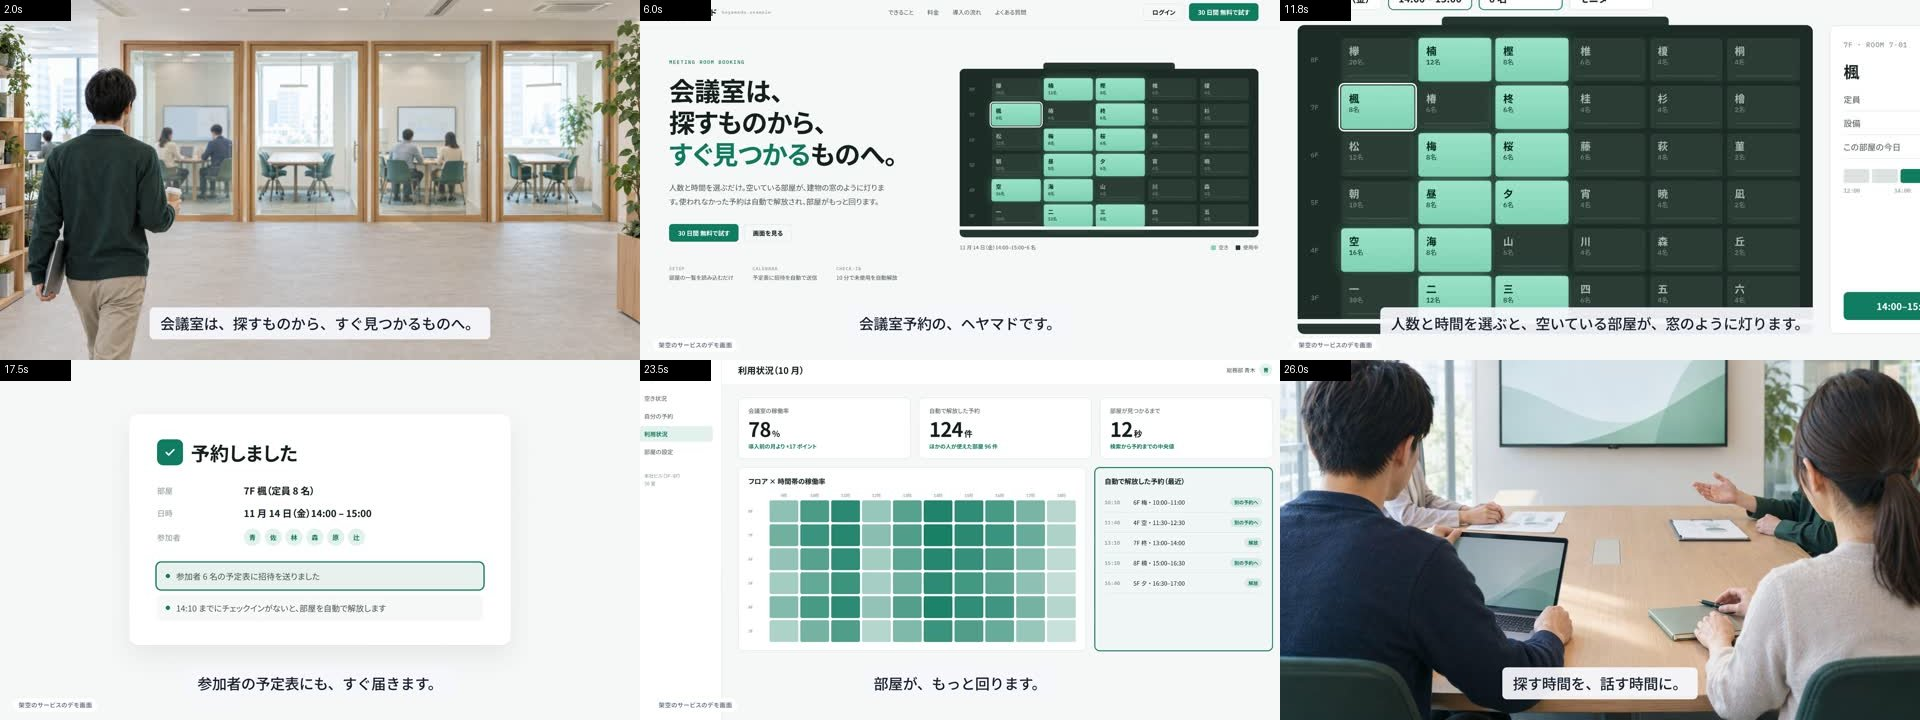
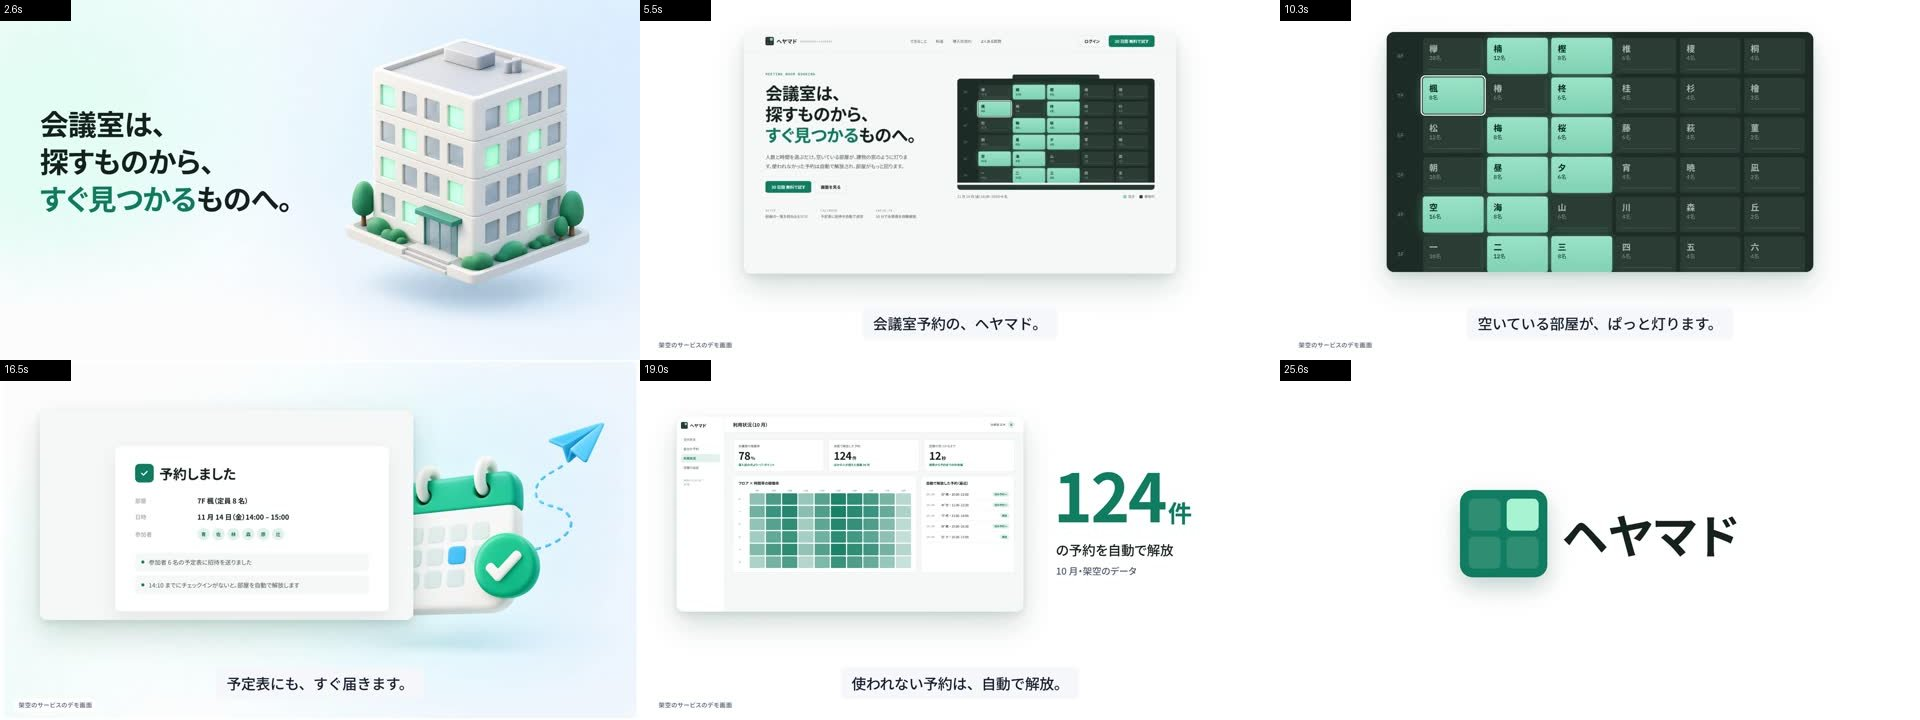
記事の主役を明るい SaaS 調の版に入れ替える
- 工程 1〜8 の例・コマ表・コード抜粋・数値・画像（GIF、候補、スタジオ、抜き出しコマ）を SaaS 版に差し替え
- 落ち着いた説明調の版は「テイストを決める」節の比較対象として残す（digest-calm.gif）
- SaaS 版に STORYBOARD.md を追加。README・AGENTS・llms.txt・docs/costs の完成例と費用を更新

diff --git a/README.md b/README.md
@@ -1,15 +1,15 @@
 # claude-code-demo-video-kit
 
 Claude Code に、展示会や商談で流す **日本語ナレーション・字幕・BGM 付きのデモ動画（1920×1080 の mp4）** を作らせるための道具一式です。
-動画は [HyperFrames](https://github.com/heygen-com/hyperframes)（HTML → mp4）で組み、素材の写真は `gpt-image-2.5-flare`、ナレーションは `gpt-realtime-2.1` で作ります。
+動画は [HyperFrames](https://github.com/heygen-com/hyperframes)（HTML → mp4）で組み、立体の小物と写真の素材は `gpt-image-2.5-flare`、ナレーションは `gpt-realtime-2.1` で作ります。
 
 ![完成例のダイジェスト](images/claude-code-demo-video-hyperframes/digest-full.gif)
 
 - 解説記事：[articles/claude-code-demo-video-hyperframes.md](articles/claude-code-demo-video-hyperframes.md)（Zenn）
 - AI エージェント向けの手順：[AGENTS.md](AGENTS.md)
-- 完成例：[examples/meetroom-30s](examples/meetroom-30s)（架空の会議室予約 SaaS「ヘヤマド」の 30 秒動画、落ち着いた説明調、mp4 と SRT は `renders/`）と、同じ題材を明るい SaaS 調にした [examples/meetroom-30s-saas](examples/meetroom-30s-saas)
+- 完成例：[examples/meetroom-30s-saas](examples/meetroom-30s-saas)（架空の会議室予約 SaaS「ヘヤマド」の 26.6 秒動画、明るい SaaS 調、mp4 と SRT は `renders/`）と、同じ題材を落ち着いた説明調にした [examples/meetroom-30s](examples/meetroom-30s)
 - テイストの決め方：[skills/ja-narrated-video/references/taste.md](skills/ja-narrated-video/references/taste.md)
-- 費用と時間の実測：[docs/costs.md](docs/costs.md)（30 秒 1 本で API 約 0.23 米ドル）
+- 費用と時間の実測：[docs/costs.md](docs/costs.md)（約 30 秒 1 本で API 約 0.31 米ドル）
 
 ## クイックスタート
 
@@ -31,7 +31,7 @@ skills/ja-narrated-video を使って、<製品名> の 30 秒のデモ動画を
 完成例だけをレンダし直すなら、API の鍵は要りません（素材はリポに入っています）。
 
 ```bash
-cd examples/meetroom-30s && npm run check && npm run render
+cd examples/meetroom-30s-saas && npm run check && npm run render
 ```
 
 ## 必要なもの
@@ -44,7 +44,7 @@ cd examples/meetroom-30s && npm run check && npm run render
 
 - このリポのコードと文書：MIT（[LICENSE](LICENSE)）
 - HyperFrames：Apache-2.0（npm から取得。このリポには含めていません）
-- 同梱フォント（`examples/meetroom-30s/assets/fonts/`）：Noto Sans JP、IBM Plex Mono（SIL Open Font License 1.1、ライセンス文を同梱）
-- 完成例の BGM（`examples/meetroom-30s/assets/bgm/`）：MusicGen small で生成。モデルの重みは CC-BY-NC 4.0 のため、非商用のサンプルとして扱ってください。商用の動画ではロイヤリティフリー音源に差し替えてください
+- 同梱フォント（`examples/*/assets/fonts/`）：Noto Sans JP、IBM Plex Mono（SIL Open Font License 1.1、ライセンス文を同梱）
+- 完成例の BGM（`examples/*/assets/bgm/`）：MusicGen small で生成。モデルの重みは CC-BY-NC 4.0 のため、非商用のサンプルとして扱ってください。商用の動画ではロイヤリティフリー音源に差し替えてください
 - 完成例の写真と音声：Azure OpenAI の `gpt-image-2.5-flare` と `gpt-realtime-2.1` で生成（比較用に `gpt-image-2` と `gpt-image-2.5-sunburst` の画像も `assets/gen/` に同梱）
 - 「ヘヤマド」は記事のために作った架空のサービスです。実在の企業・製品とは関係ありません

diff --git a/AGENTS.md b/AGENTS.md
@@ -1,7 +1,7 @@
 # AGENTS.md（AI エージェント向けの手順）
 
 このリポジトリは、Claude Code などのコーディングエージェントが **日本語ナレーション・字幕・BGM 付きのデモ動画（1920×1080 の mp4）** を作るための道具一式です。
-解説記事：`articles/claude-code-demo-video-hyperframes.md`（Zenn）。完成例：`examples/meetroom-30s/`（架空の会議室予約 SaaS「ヘヤマド」の 30 秒動画）。
+解説記事：`articles/claude-code-demo-video-hyperframes.md`（Zenn）。完成例：`examples/meetroom-30s-saas/`（架空の会議室予約 SaaS「ヘヤマド」の約 30 秒動画、明るい SaaS 調）と、同じ題材の落ち着いた説明調 `examples/meetroom-30s/`。
 
 ## 1. 着手前に、利用者へ必ず確認すること
 
@@ -10,8 +10,8 @@
 | 確認すること | 選択肢・目安 |
 |---|---|
 | 接続先 | Azure OpenAI（作者が実測）か OpenAI API（コード上は対応・作者は未検証）。必要なモデルは `gpt-image-2.5-flare`（精度優先なら `gpt-image-2.5-sunburst`）と `gpt-realtime-2.1` の 2 つ。Azure ならデプロイ済みか、クォータに空きがあるか |
-| API 費用 | 30 秒・写真 4 枚・ナレーション 7 行で **約 0.23 米ドル**（`docs/costs.md`）。画像は 2048×1152・high で 1 枚 約 0.044 ドル。作り直すたびに増える |
-| 所要時間 | 生成 API の待ちは合計 約 1 分。レンダは 30 秒動画で 約 80 秒。CPU で BGM を作ると 約 6 分。作者の実測では、画面 4 枚の作成と修正 2 回を含めて 約 20 分 |
+| API 費用 | 約 30 秒・立体の小物 4 枚・写真 2 枚・ナレーション 7 行で **約 0.31 米ドル**（`docs/costs.md`）。画像は 2048×1152・high で 1 枚 約 0.044 ドル。作り直すたびに増える |
+| 所要時間 | 生成 API の待ちは合計 約 1 分。レンダは 30 秒動画で 約 1 分。CPU で BGM を作ると 約 6 分。作者の実測では、画面 4 枚の作成と修正 2 回を含めて 約 20 分 |
 | 動画の中身 | 誰に・どこで流すか（展示会のループか商談の冒頭か）、尺、言いたいこと 1 つ、出してよい社名・製品名・固有名 |
 | テイスト | 落ち着いた説明調（calm）か、明るい SaaS のローンチ調（saas-bright）か。近い既存の動画や LP、避けたいもの（ダーク、ネオン、顔など）。`skills/ja-narrated-video/references/taste.md` |
 | 素材の権利 | 実画面を撮る対象は利用者に権利があるか。他社サイトやロゴは使わない |

diff --git a/examples/meetroom-30s-saas/STORYBOARD.md b/examples/meetroom-30s-saas/STORYBOARD.md
@@ -1,0 +1,17 @@
+# STORYBOARD — ヘヤマド 30 秒・明るい SaaS 調（v1）
+
+1920×1080・30fps。尺は録音後の実尺で決める（`.hyperframes/build_frames_saas.py` が voice_meta.json から計算）。
+字幕はナレーション全文。ただし大きな文字を出す c01・c07 は画面の字幕を外す（`caption_skip`）。
+
+| コマ | 尺 | ナレーション | 画面 |
+|---|---|---|---|
+| c01-hook | 4.05s | 会議室は、探すものから、すぐ見つかるものへ。 | 大きな文字（左、拍に合わせて 3 行）＋窓が灯る立体のビル（`gen/flare/s01_building_a`） |
+| c02-name | 3.0s | 会議室予約の、ヘヤマド。 | LP の画面カードが傾いた状態から起き上がる |
+| c03-find | 5.84s | 人数と時間を選ぶだけ。空いている部屋が、ぱっと灯ります。 | 空き状況の画面カード → 「空いている部屋が」でカードの中を 1.75 倍に寄せる |
+| c04-book | 4.42s | 予約はワンクリック。予定表にも、すぐ届きます。 | 予約完了の画面カード（ダイアログに 1.6 倍）→ 「予定表にも」で紙飛行機が飛ぶカレンダー（`gen/flare/s04_calendar_b`） |
+| c05-loop | 3.36s | 使われない予約は、自動で解放。 | 利用状況の画面カード＋「124 件」のカウントアップ |
+| c06-talk | 3.29s | 探す時間を、話す時間に。 | 写真：明るいオフィスで話すチーム（`gen/flare/s06_team_a`）。KB |
+| c07-close | 2.6s | ヘヤマド。 | ロゴがばねで出て窓が 1 つ灯る、サービス名 |
+
+転換：push 0.35 秒。BGM：upbeat（4.05 秒でビートに切り替え）。
+伏線：c01 の「窓が灯るビル」→ c03 の「ぱっと灯ります」で、建物の窓という比喩を回収する。

diff --git a/docs/costs.md b/docs/costs.md
@@ -1,5 +1,7 @@
 # 実測：30 秒動画 1 本の費用と時間
 
+記事の主役は明るい SaaS 調の版（`examples/meetroom-30s-saas`、0.308 ドル、ページ末尾）。前半は同じ題材の落ち着いた説明調の版と、モデルの新旧比較。
+
 対象：`examples/meetroom-30s`（架空の会議室予約 SaaS「ヘヤマド」、30.2 秒・1920×1080・30fps・ナレーション 7 行・字幕 9 キュー・BGM 付き）。
 接続先：Azure OpenAI（East US）。マシン：Linux VM（GPU なし）。
 ログの原本は `examples/meetroom-30s/costs.jsonl`（現行）と `.hyperframes/costs_v1_gpt-image-2.jsonl`（旧モデルでの初版）。表は `skills/ja-narrated-video/scripts/cost_report.py` で作った。
